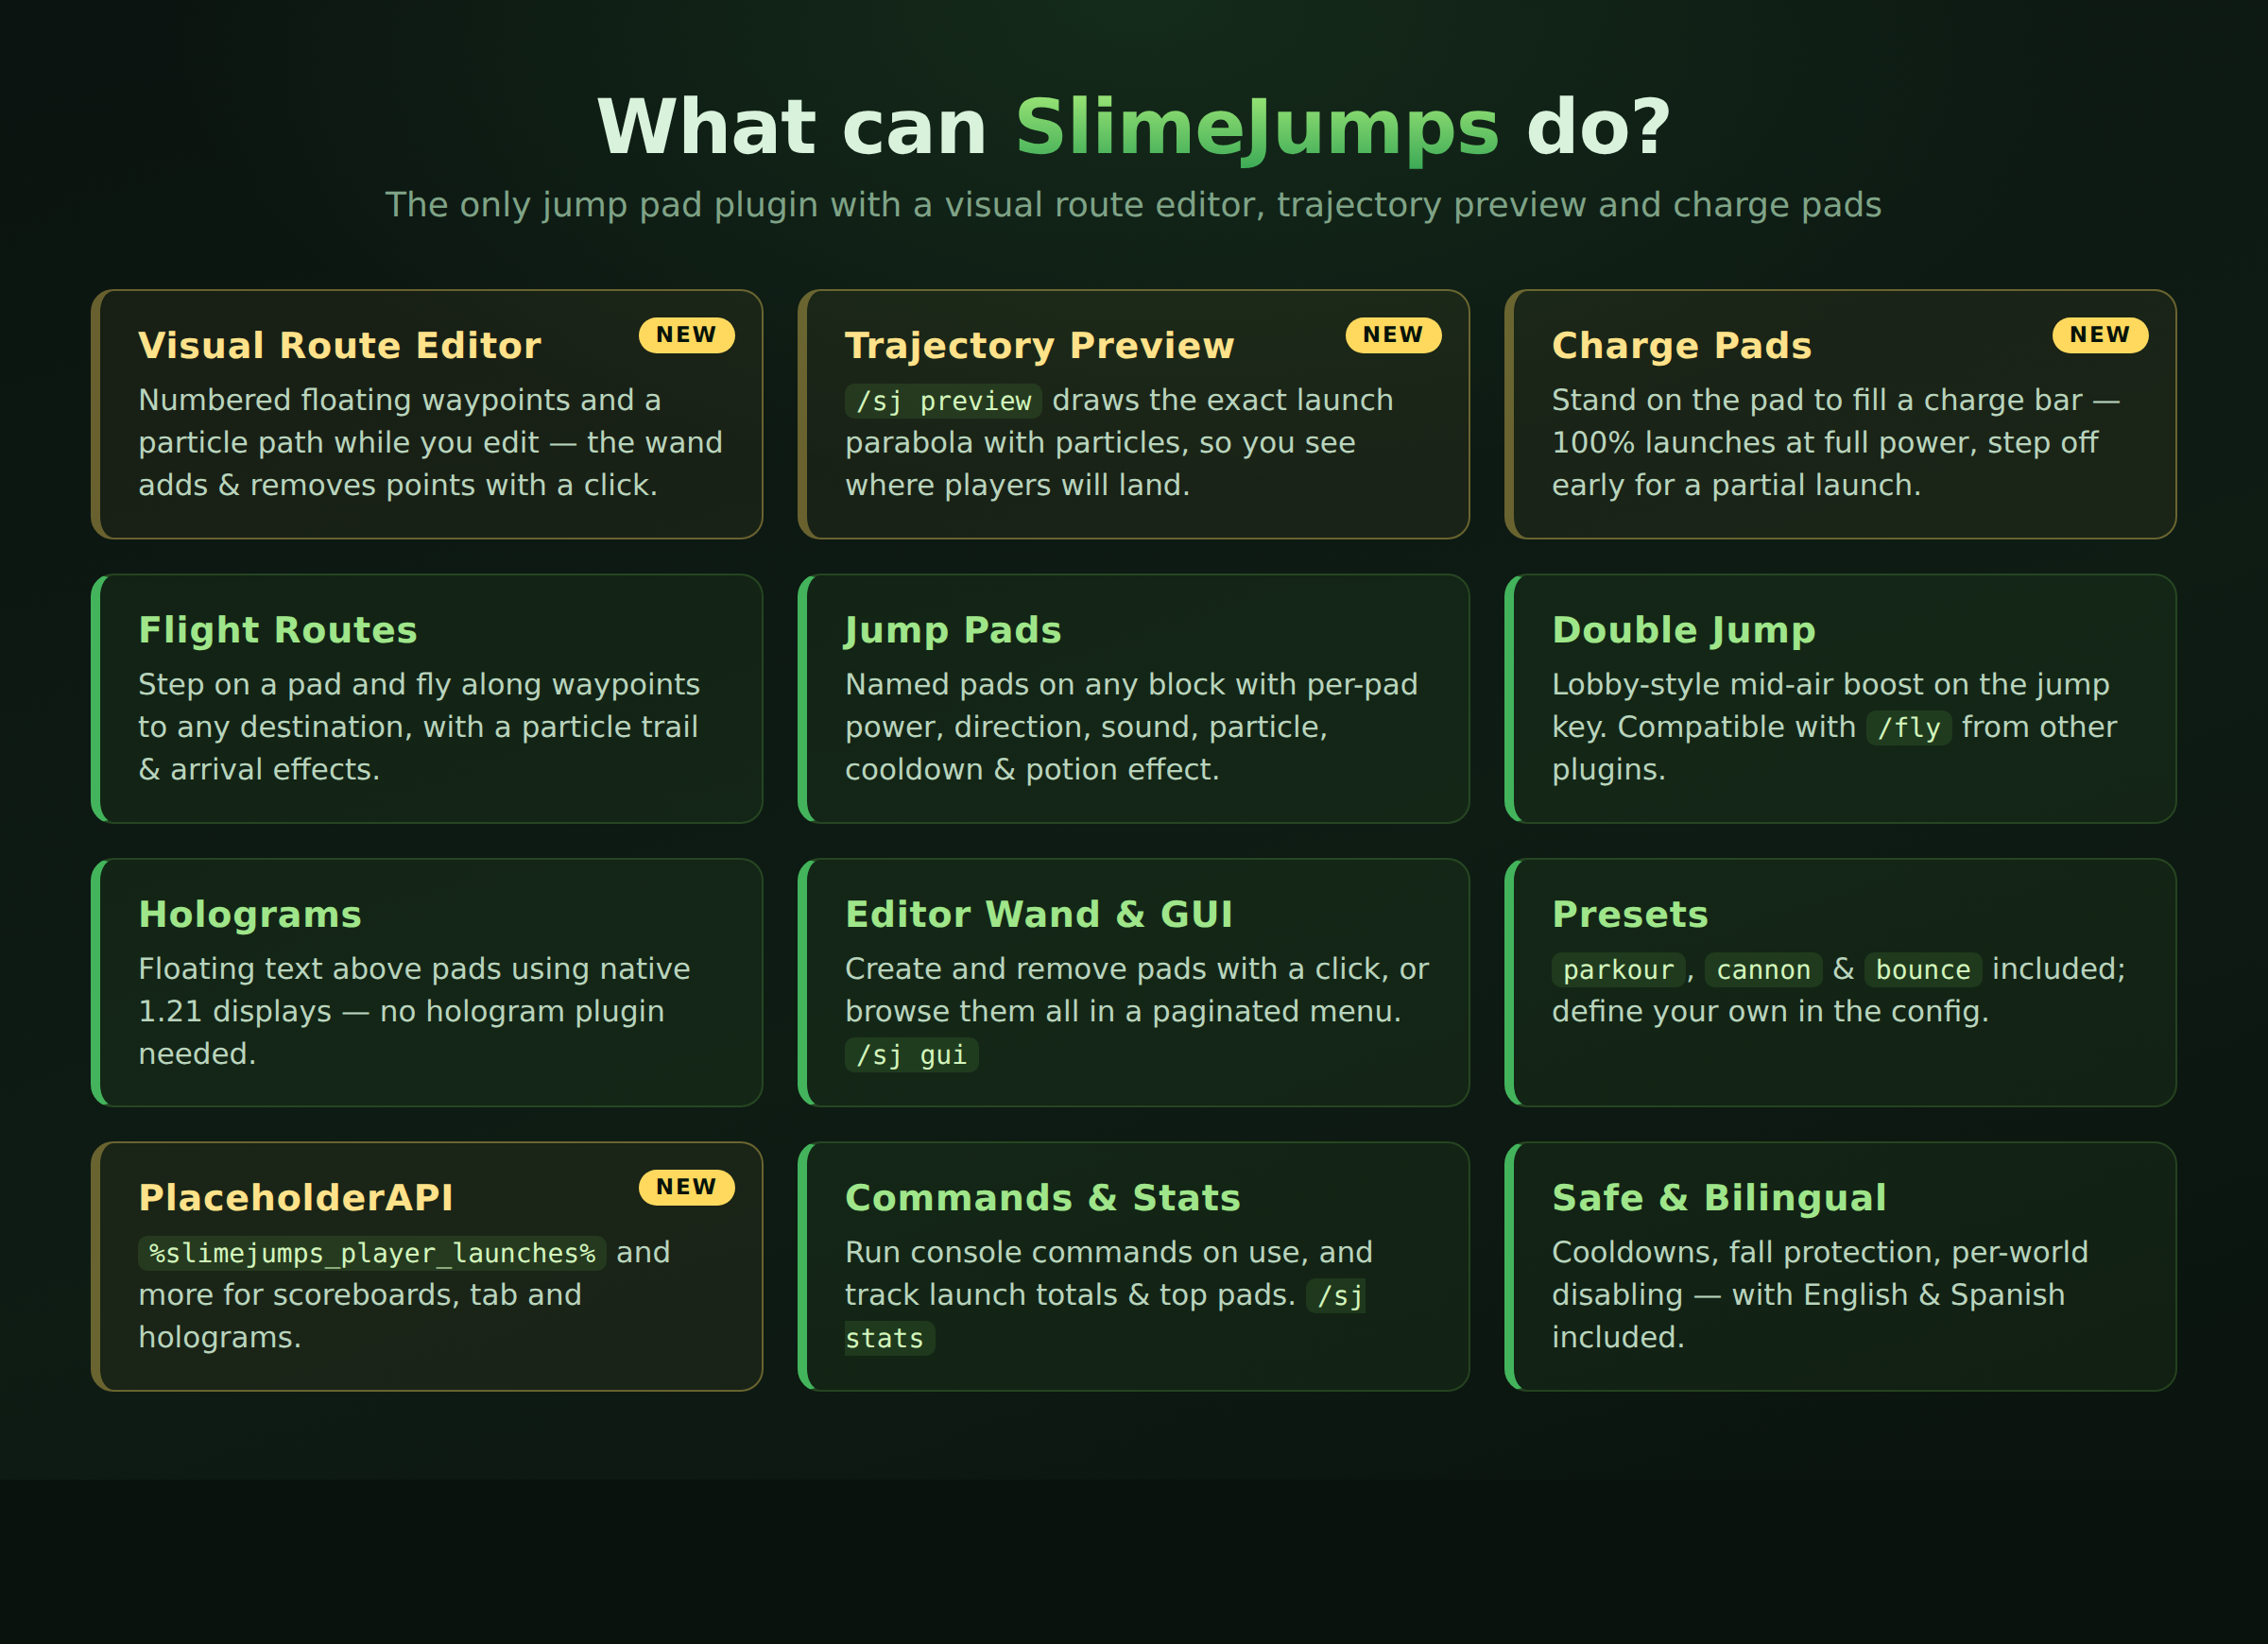
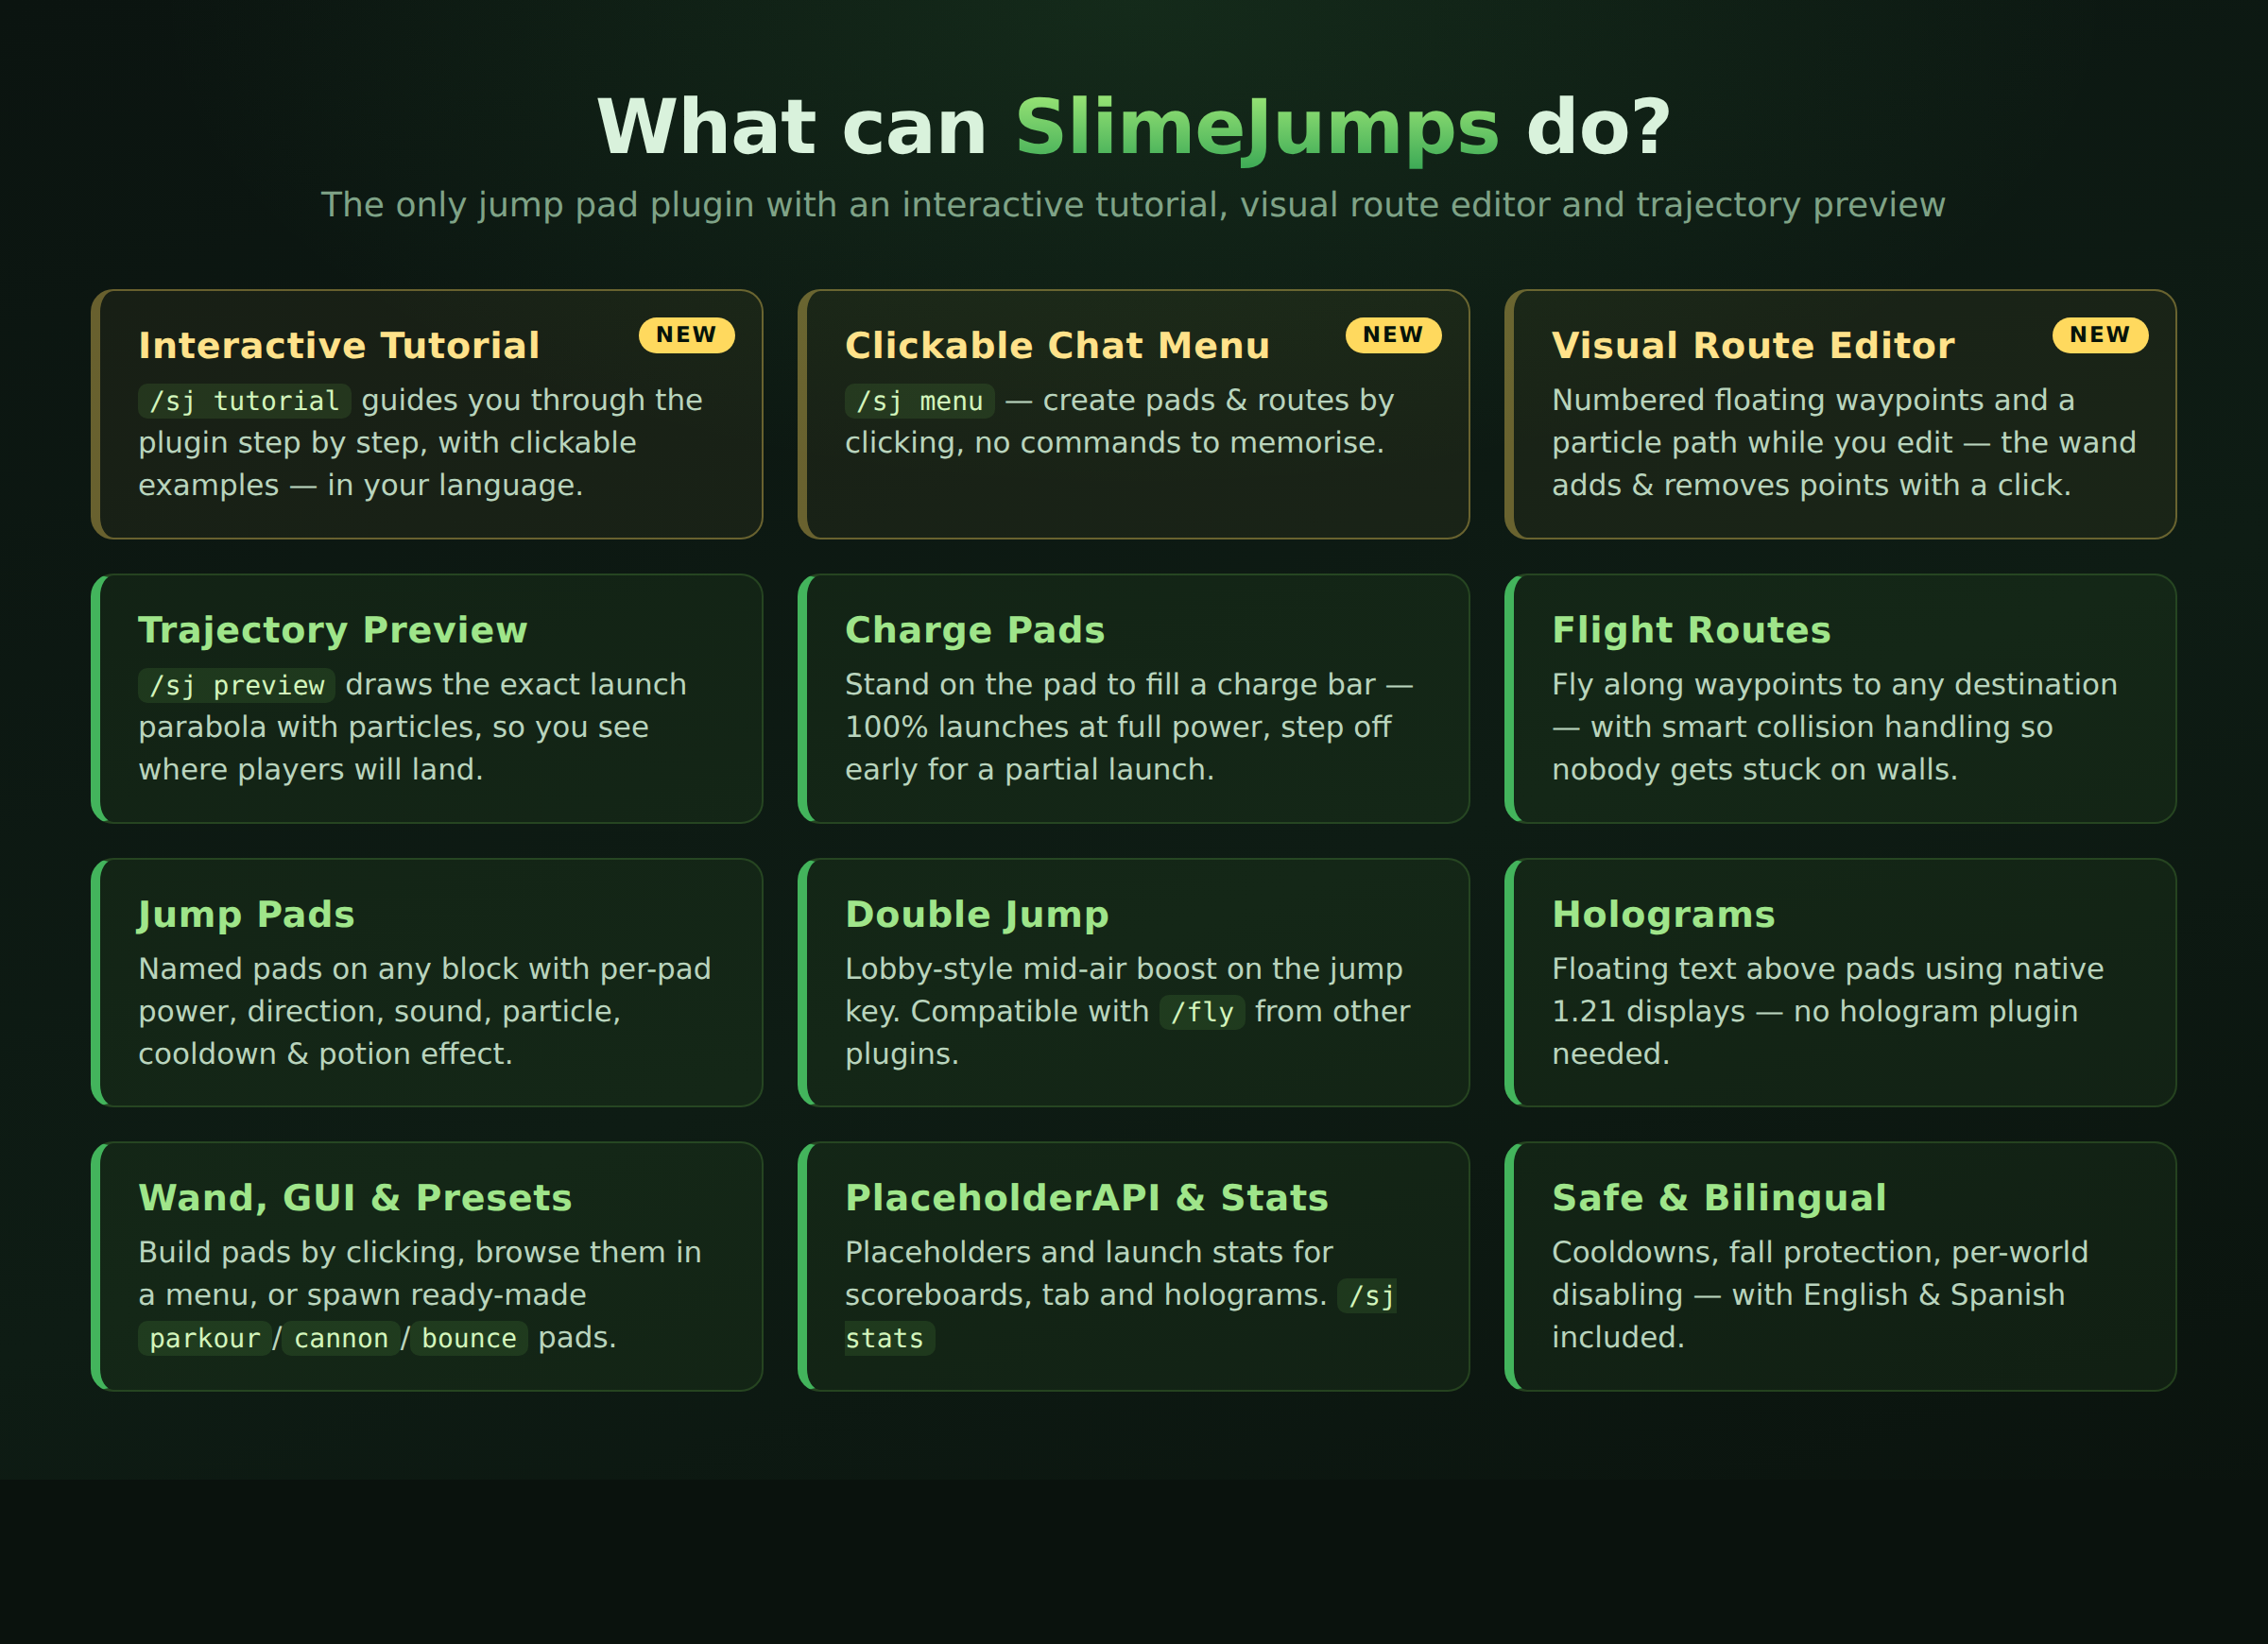
Fix quit handling for routes and tutorial, refresh promo for 2.6.1
- Players who log out mid-flight are now protected from fall damage when
  they rejoin, instead of dropping from the sky and taking damage
- The tutorial keeps each player's progress and language for the whole
  server session, so leaving mid-tutorial and returning resumes where
  they left off; navigating with no active tutorial opens the picker
- Refresh the features image and SpigotMC listing with the interactive
  tutorial, clickable chat menu and route collision handling

diff --git a/src/main/java/net/licory/slimejumps/manager/TutorialManager.java b/src/main/java/net/licory/slimejumps/manager/TutorialManager.java
@@ -4,9 +4,6 @@ import net.licory.slimejumps.SlimeJumpsPlugin;
 import net.licory.slimejumps.util.ChatUI;
 import net.md_5.bungee.api.chat.TextComponent;
 import org.bukkit.entity.Player;
-import org.bukkit.event.EventHandler;
-import org.bukkit.event.Listener;
-import org.bukkit.event.player.PlayerQuitEvent;
 
 import java.util.HashMap;
 import java.util.List;
@@ -21,8 +18,13 @@ import java.util.UUID;
  * that explain the plugin with examples and clickable "try it" buttons.
  * Navigation is done entirely by clicking buttons in chat, which run
  * {@code /sj tutorial next|back|stop} behind the scenes.
+ * <p>
+ * Progress and the chosen language are kept in memory for the whole
+ * server session (they are not cleared on quit), so a player who leaves
+ * mid-tutorial resumes exactly where they left off — in the same
+ * language — when they run {@code /sj tutorial} again after rejoining.
  */
-public final class TutorialManager implements Listener {
+public final class TutorialManager {
 
     /** Number of tutorial steps (message keys tutorial-1..N-title/-body). */
     public static final int STEP_COUNT = 8;
@@ -86,6 +88,10 @@ public final class TutorialManager implements Listener {
 
     /** Advances to the next step, finishing the tutorial past the last one. */
     public void next(Player player) {
+        if (!hasActiveTutorial(player)) {
+            open(player);
+            return;
+        }
         int current = step.getOrDefault(player.getUniqueId(), 0);
         if (current + 1 >= STEP_COUNT) {
             finish(player);
@@ -96,8 +102,17 @@ public final class TutorialManager implements Listener {
 
     /** Goes back one step (clamped at the first). */
     public void back(Player player) {
+        if (!hasActiveTutorial(player)) {
+            open(player);
+            return;
+        }
         int current = step.getOrDefault(player.getUniqueId(), 0);
         showStep(player, Math.max(0, current - 1));
+    }
+
+    /** Whether the player has picked a language and started the tutorial. */
+    private boolean hasActiveTutorial(Player player) {
+        return language.containsKey(player.getUniqueId());
     }
 
     /** Ends the tutorial for a player. */
@@ -113,6 +128,12 @@ public final class TutorialManager implements Listener {
         for (String line : plugin.getMessages().getListIn(lang, "tutorial-finished")) {
             player.sendMessage(line);
         }
+    }
+
+    /** Frees a player's tutorial state (called on server shutdown/reload). */
+    public void reset() {
+        step.clear();
+        language.clear();
     }
 
     private void showStep(Player player, int index) {
@@ -159,12 +180,5 @@ public final class TutorialManager implements Listener {
                 back,
                 ChatUI.text("  &7" + (index + 1) + "&8/&7" + STEP_COUNT + "  "),
                 forward);
-    }
-
-    @EventHandler
-    public void onQuit(PlayerQuitEvent event) {
-        UUID id = event.getPlayer().getUniqueId();
-        step.remove(id);
-        language.remove(id);
     }
 }

diff --git a/src/main/java/net/licory/slimejumps/manager/FlightManager.java b/src/main/java/net/licory/slimejumps/manager/FlightManager.java
@@ -8,14 +8,17 @@ import org.bukkit.entity.Player;
 import org.bukkit.event.EventHandler;
 import org.bukkit.event.Listener;
 import org.bukkit.event.entity.EntityDamageEvent;
+import org.bukkit.event.player.PlayerJoinEvent;
 import org.bukkit.event.player.PlayerQuitEvent;
 import org.bukkit.util.Vector;
 
 import java.util.HashMap;
+import java.util.HashSet;
 import java.util.Iterator;
 import java.util.List;
 import java.util.Locale;
 import java.util.Map;
+import java.util.Set;
 import java.util.UUID;
 
 /**
@@ -45,6 +48,8 @@ public final class FlightManager implements Listener, Runnable {
     private final SlimeJumpsPlugin plugin;
     private final Map<UUID, Flight> flights = new HashMap<>();
     private final Map<UUID, Long> landingProtection = new HashMap<>();
+    /** Players who quit mid-flight; protected from fall damage on rejoin. */
+    private final Set<UUID> protectOnRejoin = new HashSet<>();
 
     public FlightManager(SlimeJumpsPlugin plugin) {
         this.plugin = plugin;
@@ -296,8 +301,21 @@ public final class FlightManager implements Listener, Runnable {
     @EventHandler
     public void onQuit(PlayerQuitEvent event) {
         UUID id = event.getPlayer().getUniqueId();
-        flights.remove(id);
+        // A player who logs out mid-flight would drop from the sky and take
+        // fall damage on rejoin, so remember to protect their landing.
+        if (flights.remove(id) != null) {
+            protectOnRejoin.add(id);
+        }
         landingProtection.remove(id);
+    }
+
+    @EventHandler
+    public void onJoin(PlayerJoinEvent event) {
+        UUID id = event.getPlayer().getUniqueId();
+        if (protectOnRejoin.remove(id)) {
+            long protectionMs = plugin.getConfig().getLong("routes.landing-protection-ms", 5000L);
+            landingProtection.put(id, System.currentTimeMillis() + Math.max(protectionMs, 8000L));
+        }
     }
 
     private static Particle parseParticle(String name, Particle fallback) {

diff --git a/src/main/java/net/licory/slimejumps/SlimeJumpsPlugin.java b/src/main/java/net/licory/slimejumps/SlimeJumpsPlugin.java
@@ -94,7 +94,6 @@ public final class SlimeJumpsPlugin extends JavaPlugin {
         getServer().getScheduler().runTaskTimer(this, routeEditManager, 10L, 10L);
 
         tutorialManager = new TutorialManager(this);
-        getServer().getPluginManager().registerEvents(tutorialManager, this);
 
         wandListener = new WandListener(this);
         getServer().getPluginManager().registerEvents(wandListener, this);
@@ -128,6 +127,9 @@ public final class SlimeJumpsPlugin extends JavaPlugin {
         }
         if (routeEditManager != null) {
             routeEditManager.reset();
+        }
+        if (tutorialManager != null) {
+            tutorialManager.reset();
         }
         if (padManager != null) {
             padManager.save();

diff --git a/CHANGELOG.md b/CHANGELOG.md
@@ -2,6 +2,14 @@
 
 All notable changes to SlimeJumps are documented in this file.
 
+## [2.6.1] - 2026-07-11
+
+### Fixed
+- Players who log out while flying a route are now protected from fall damage when they rejoin, instead of dropping from the sky and taking damage.
+
+### Changed
+- The tutorial now remembers each player's progress and chosen language for the whole server session, so leaving mid-tutorial and coming back resumes exactly where you left off. Running `/sj tutorial next`/`back` without an active tutorial safely opens the language picker.
+
 ## [2.6.0] - 2026-07-10
 
 ### Added